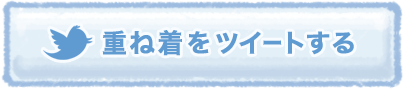
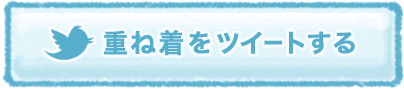
メッセージ

diff --git a/public/kasanegi/js/viewer.js b/public/kasanegi/js/viewer.js
@@ -288,8 +288,8 @@ Viewer = (function() {
       height: 480,
       theme: {
         shell: {
-          background: '#ccebff',
-          color: '#5f9ad1'
+          background: '#8cd5ef',
+          color: '#fff'
         },
         tweets: {
           background: '#ffffff',
@@ -352,7 +352,7 @@ Viewer = (function() {
     }
     if (navigator.appVersion.match(/iPhone OS/)) {
       return setTimeout(function() {
-        return window.scrollBy(0, $('#result').position().top);
+        return window.scrollTo(0, $('#result').position().top);
       }, 500);
     }
   };
@@ -372,121 +372,121 @@ Viewer = (function() {
         max: 100,
         daytime: [CLOTH_SHIRTS],
         night: [CLOTH_SHIRTS],
-        comment: 'シャツ1枚です(とても暑い)'
+        comment: '異常な暑さです'
       }, {
         min: 25,
         max: 25,
         daytime: [CLOTH_SHIRTS],
         night: [CLOTH_SHIRTS],
-        comment: 'あ'
+        comment: '今日は暖かくていい天気なのでシャツ一枚で大丈夫です'
       }, {
         min: 18,
         max: 25,
         daytime: [CLOTH_SHIRTS],
         night: [CLOTH_SHIRTS, CLOTH_CARDIGAN],
-        comment: 'あ'
+        comment: '昼は暑く夜はカーディガンがあればいいくらいです'
       }, {
         min: 15,
         max: 25,
         daytime: [CLOTH_SHIRTS],
         night: [CLOTH_SHIRTS, CLOTH_JACKET],
-        comment: 'あ'
+        comment: '昼は暑いのでシャツ一枚でいいです'
       }, {
         min: 10,
         max: 25,
         daytime: [CLOTH_SHIRTS],
         night: [CLOTH_SHIRTS, CLOTH_CARDIGAN, CLOTH_JACKET],
-        comment: 'あ'
+        comment: '昼は暑いのでシャツ一枚でいいです'
       }, {
         min: 7,
         max: 25,
         daytime: [CLOTH_SHIRTS],
         night: [CLOTH_SHIRTS, CLOTH_CARDIGAN, CLOTH_COAT],
-        comment: 'あ'
+        comment: '昼は暑いのでシャツ一枚でいいです'
       }, {
         min: 5,
         max: 25,
         daytime: [CLOTH_SHIRTS],
         night: [CLOTH_SHIRTS, CLOTH_CARDIGAN, CLOTH_COAT, CLOTH_MUFFLER],
-        comment: 'あ'
+        comment: '昼は暑いのでシャツ一枚でいいです'
       }, {
         min: 18,
         max: 18,
         daytime: [CLOTH_SHIRTS, CLOTH_CARDIGAN],
         night: [CLOTH_SHIRTS, CLOTH_CARDIGAN],
-        comment: 'あ'
+        comment: '一日中同じくらいの気温なのでカーディガンです'
       }, {
         min: 15,
         max: 18,
         daytime: [CLOTH_SHIRTS, CLOTH_JACKET],
         night: [CLOTH_SHIRTS, CLOTH_JACKET],
-        comment: 'あ'
+        comment: '一日中同じくらいの気温なのでジャケットです'
       }, {
         min: 10,
         max: 18,
         daytime: [CLOTH_SHIRTS, CLOTH_CARDIGAN],
         night: [CLOTH_SHIRTS, CLOTH_CARDIGAN, CLOTH_JACKET],
-        comment: 'あ'
+        comment: 'カーディガンにジャケットを羽織ります'
       }, {
         min: 7,
         max: 18,
         daytime: [CLOTH_SHIRTS, CLOTH_CARDIGAN],
         night: [CLOTH_SHIRTS, CLOTH_CARDIGAN, CLOTH_COAT],
-        comment: 'あ'
+        comment: 'カーディガンにコートを羽織ります'
       }, {
         min: 5,
         max: 18,
         daytime: [CLOTH_SHIRTS, CLOTH_CARDIGAN],
         night: [CLOTH_SHIRTS, CLOTH_CARDIGAN, CLOTH_COAT, CLOTH_MUFFLER],
-        comment: 'あ'
+        comment: '夜は寒いのでコートにマフラーがいいです'
       }, {
         min: 14,
         max: 14,
         daytime: [CLOTH_SHIRTS, CLOTH_SWEATER],
         night: [CLOTH_SHIRTS, CLOTH_SWEATER],
-        comment: '温度差はあまりのでいま体感している温度で問題ないです'
+        comment: '一日セーターです'
       }, {
         min: 10,
         max: 14,
         daytime: [CLOTH_SHIRTS, CLOTH_SWEATER],
         night: [CLOTH_SHIRTS, CLOTH_SWEATER, CLOTH_JACKET],
-        comment: 'あ'
+        comment: 'セーターにジャケットを羽織ります'
       }, {
         min: 7,
         max: 14,
         daytime: [CLOTH_SHIRTS, CLOTH_SWEATER],
         night: [CLOTH_SHIRTS, CLOTH_SWEATER, CLOTH_COAT],
-        comment: 'あ'
+        comment: 'もこもこセーターにコート羽織って出かけましょう'
       }, {
         min: 5,
         max: 14,
         daytime: [CLOTH_SHIRTS, CLOTH_SWEATER],
         night: [CLOTH_SHIRTS, CLOTH_SWEATER, CLOTH_COAT, CLOTH_MUFFLER],
-        comment: 'あ'
+        comment: '夜は冷え込むのでたくさん着ていきましょう'
       }, {
         min: 10,
         max: 10,
         daytime: [CLOTH_SHIRTS, CLOTH_CARDIGAN, CLOTH_COAT],
         night: [CLOTH_SHIRTS, CLOTH_CARDIGAN, CLOTH_COAT],
-        comment: 'あ'
+        comment: '今日は一日少し寒いです'
       }, {
         min: 8,
         max: 10,
         daytime: [CLOTH_SHIRTS, CLOTH_SWEATER, CLOTH_COAT],
         night: [CLOTH_SHIRTS, CLOTH_SWEATER, CLOTH_COAT],
-        comment: 'あ'
+        comment: '今日は一日寒いです'
       }, {
         min: 5,
         max: 10,
         daytime: [CLOTH_SHIRTS, CLOTH_SWEATER, CLOTH_COAT],
         night: [CLOTH_SHIRTS, CLOTH_SWEATER, CLOTH_COAT, CLOTH_MUFFLER],
-        comment: '夜は寒いのでマフラーが要ります，昼はコート'
+        comment: '今日は一日すごく寒いです'
       }, {
         min: 5,
         max: 5,
         daytime: [CLOTH_SHIRTS, CLOTH_SWEATER, CLOTH_COAT, CLOTH_MUFFLER],
         night: [CLOTH_SHIRTS, CLOTH_SWEATER, CLOTH_COAT, CLOTH_MUFFLER],
-        comment: '尋常じゃなく寒いです'
+        comment: '今日は異常な寒さです風邪に気をつけましょう'
       }
     ];
   })();
